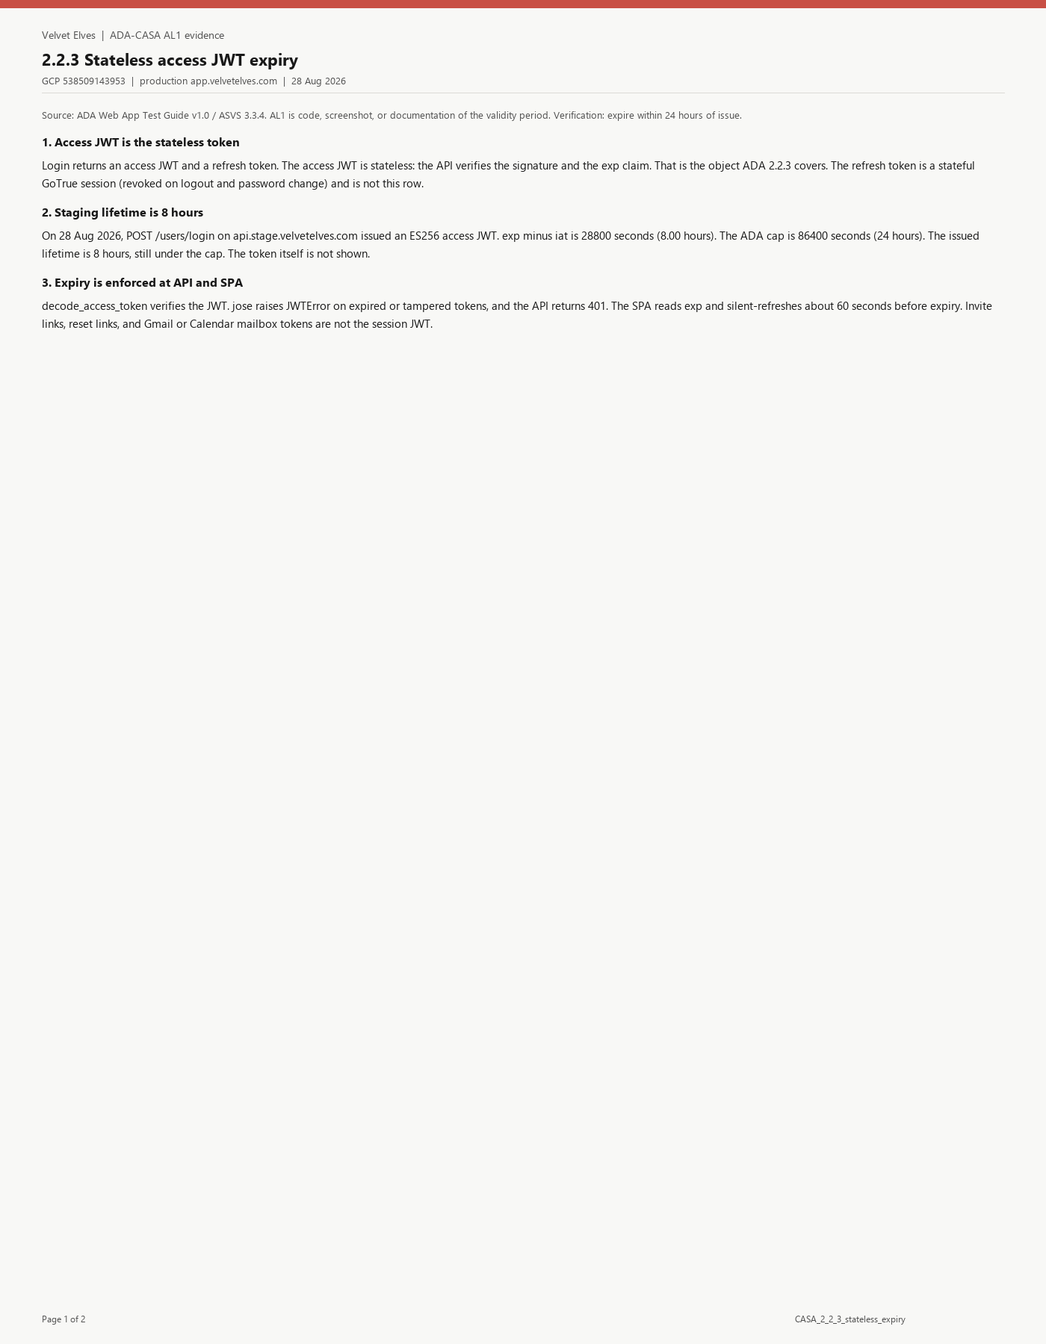
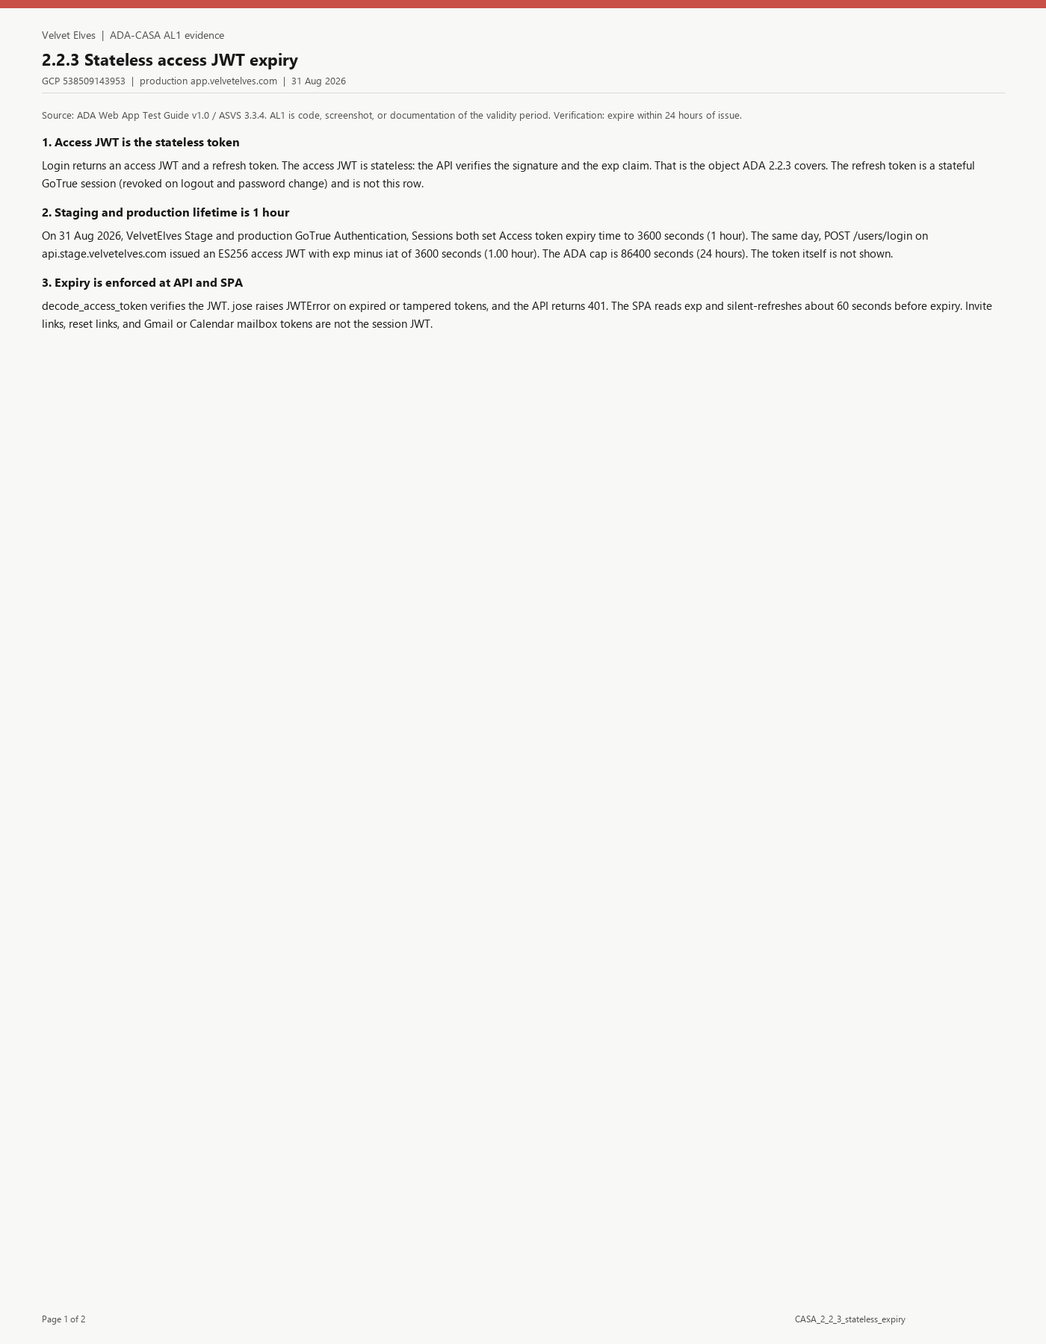
docs(casa): align 2.2.3 staging JWT expiry with 3600s Sessions change
Owner set VelvetElves Stage access-token expiry to 1 hour; live login and pack comments now match production.

Changed region(s): [[0.5221, 0.1556, 0.8907, 0.1867], [0.0921, 0.1556, 0.3686, 0.2178], [0.3993, 0.1556, 0.4914, 0.1867]]

diff --git a/casa_auth_qa/render_casa_223_pages.py b/casa_auth_qa/render_casa_223_pages.py
@@ -71,7 +71,7 @@ def new_page(title: str, page_no: int):
     d.text((MARGIN, 64), title, font=F_H, fill=INK)
     d.text(
         (MARGIN, 98),
-        "GCP 538509143953  |  production app.velvetelves.com  |  28 Aug 2026",
+        "GCP 538509143953  |  production app.velvetelves.com  |  31 Aug 2026",
         font=F_SMALL,
         fill=MUTED,
     )
@@ -119,14 +119,14 @@ def page1():
         ],
     )
     y += 10
-    d.text((MARGIN, y), "2. Staging lifetime is 8 hours", font=F_SEC, fill=INK)
+    d.text((MARGIN, y), "2. Staging and production lifetime is 1 hour", font=F_SEC, fill=INK)
     y += 32
     y = paint(
         d,
         y,
         [
             (
-                "On 28 Aug 2026, POST /users/login on api.stage.velvetelves.com issued an ES256 access JWT. exp minus iat is 28800 seconds (8.00 hours). The ADA cap is 86400 seconds (24 hours). The issued lifetime is 8 hours, still under the cap. The token itself is not shown.",
+                "On 31 Aug 2026, VelvetElves Stage and production GoTrue Authentication, Sessions both set Access token expiry time to 3600 seconds (1 hour). The same day, POST /users/login on api.stage.velvetelves.com issued an ES256 access JWT with exp minus iat of 3600 seconds (1.00 hour). The ADA cap is 86400 seconds (24 hours). The token itself is not shown.",
                 F_BODY,
                 INK,
             ),
@@ -162,7 +162,7 @@ def page2():
         ),
         (
             "Expires within 24 hours of issue",
-            "Staging 28 Aug 2026: exp minus iat = 28800 seconds (8.00 hours).",
+            "Staging 31 Aug 2026: exp minus iat = 3600 seconds (1.00 hour). GoTrue Sessions on staging and production: 3600 seconds.",
             True,
         ),
         (
@@ -172,7 +172,7 @@ def page2():
         ),
         (
             "Validity period documented",
-            "Live iat/exp decode (token not shown) plus decode_access_token and SPA exp handling.",
+            "Live iat/exp decode (token not shown), GoTrue Sessions 3600 s on staging and production, plus decode_access_token and SPA exp handling.",
             True,
         ),
     ]
@@ -190,7 +190,7 @@ def page2():
         y,
         [
             (
-                "The Velvet Elves session access token is a signed JWT that expires 8 hours after issue on staging, under ADA’s 24-hour cap. Expired tokens are rejected by JWT verification. This was measured from a live staging login without pasting the token.",
+                "The Velvet Elves session access token is a signed JWT that expires 1 hour after issue on staging and production, under ADA’s 24-hour cap. Expired tokens are rejected by JWT verification. This was measured from a live staging login without pasting the token.",
                 F_BODY,
                 INK,
             ),

diff --git a/casa_auth_qa/casa_223_exp.py b/casa_auth_qa/casa_223_exp.py
@@ -89,7 +89,7 @@ def render(*, alg: str, iat: int, exp: int, lifetime_s: int, login_status: int) 
         y += 44
     d.text(
         (48, H - 48),
-        "api.stage.velvetelves.com  |  CASA_2_2_3_exp  |  28 Aug 2026",
+        "api.stage.velvetelves.com  |  CASA_2_2_3_exp  |  31 Aug 2026",
         font=font(12),
         fill=(80, 80, 80),
     )

diff --git a/casa_al1_evidence/m9/CASA_PORTAL_PACK.md b/casa_al1_evidence/m9/CASA_PORTAL_PACK.md
@@ -37,7 +37,7 @@ Global do-not-claim (these rows): HttpOnly session cookies; MFA default for **al
 | 9 | 2.1.1 | URLs shall not expose authentication material | 5 | `CASA_2_1_1_no_tokens_in_url.md` |
 | 10 | 2.2.1 | Logout invalidates stateful session tokens | 6 | `CASA_2_2_1_logout.md` |
 | 11 | 2.2.2 | Terminate other sessions after password change | 7 | `CASA_2_2_2_password_change_sessions.md` |
-| 12 | 2.2.3 | Stateless authentication tokens expire within 24 hours | 5 | `CASA_2_2_3_stateless_expiry.md` |
+| 12 | 2.2.3 | Stateless authentication tokens expire within 24 hours | 6 | `CASA_2_2_3_stateless_expiry.md` |
 | 13 | 2.3.1 | Cookie-based session tokens shall have the Secure attribute | 5 | `CASA_2_3_1_cookie_secure.md` |
 | 14 | 2.3.2 | Cookie-based session tokens shall have the HttpOnly attribute | 5 | `CASA_2_3_2_cookie_httponly.md` |
 | 15 | 2.3.3 | Session tokens rather than static API secrets and keys | 4 | `CASA_2_3_3_session_not_static_key.md` |
@@ -460,29 +460,31 @@ Password change is through password reset (Forgot password), not an in-app curre
 
 - Access JWT is the stateless session token. Refresh is a separate, stateful GoTrue session (2.2.1 / 2.2.2).
 - Production GoTrue **Authentication → Sessions** (31 Aug 2026): **Access token expiry time = 3600 seconds (1 hour)**.
-- Staging live `POST /users/login` then decode `iat` / `exp`: **28800 seconds (8.00 hours)** on 28 Aug and again 31 Aug 2026, ES256. Token not shown. Staging and production GoTrue projects are not the same clock.
-- Both values are under ADA's **24-hour** cap.
+- Staging GoTrue **Authentication → Sessions** (VelvetElves Stage, 31 Aug 2026, owner-captured): **Access token expiry time = 3600 seconds (1 hour)**. The orange **PRODUCTION** badge is that project's primary-branch label, not `app.velvetelves.com`.
+- Staging live `POST /users/login` then decode `iat` / `exp` after that change (31 Aug 2026): **3600 seconds (1.00 hour)**, ES256. Token not shown. Earlier the same day (and on 28 Aug) staging still issued **28800 s**.
+- Both environments are under ADA's **24-hour** cap.
 - `decode_access_token` verifies the JWT; expired tokens raise `JWTError` → 401.
 - SPA reads `exp` (`getTokenExpirationMs`) and silent-refreshes ~60 s before expiry.
 
-**Do not claim:** that staging issues 1-hour JWTs (live staging is 8 hours); that production issues 8-hour JWTs (dashboard is 3600 s); that the refresh token expires within 24 hours; that **Inactivity timeout** or **Time-box user sessions** (both 0 = never on this PNG) are the 2.2.3 control — those are not the access JWT `exp`; HttpOnly cookies; invite/reset/mailbox tokens as the session JWT; pasting JWTs.
+**Do not claim:** that staging still issues 8-hour JWTs (that was true until the owner set 3600 s on 31 Aug); that the refresh token expires within 24 hours; that **Inactivity timeout** or **Time-box user sessions** (both 0 = never on these PNGs) are the 2.2.3 control — those are not the access JWT `exp`; that the Stage project's **PRODUCTION** badge is the production app host; HttpOnly cookies; invite/reset/mailbox tokens as the session JWT; pasting JWTs.
 
-**Helpers:** `casa_auth_qa/render_casa_223_pages.py`, `casa_223_exp.py` (`QA_PASSWORD`). Owner Sessions shot is `CASA_2_2_3_supabase_jwt.png` — do **not** recapture supabase.com.
+**Helpers:** `casa_auth_qa/render_casa_223_pages.py`, `casa_223_exp.py` (`QA_PASSWORD`). Owner Sessions shots are `CASA_2_2_3_supabase_jwt.png` (prod) and `CASA_2_2_3_supabase_jwt_stage.png` (VelvetElves Stage) — do **not** recapture supabase.com.
 
 ### Images
 
 | File | Description |
 | --- | --- |
-| [`tac_images/2.2.3/CASA_2_2_3_page1.png`](tac_images/2.2.3/CASA_2_2_3_page1.png) | Written evidence page 1 of 2. Access JWT vs refresh; staging 8-hour lifetime; API and SPA exp handling. |
-| [`tac_images/2.2.3/CASA_2_2_3_page2.png`](tac_images/2.2.3/CASA_2_2_3_page2.png) | Written evidence page 2 of 2. AL1 mapping. Measured from live staging login. |
+| [`tac_images/2.2.3/CASA_2_2_3_page1.png`](tac_images/2.2.3/CASA_2_2_3_page1.png) | Written evidence page 1 of 2. Access JWT vs refresh; 1-hour lifetime on staging and production; API and SPA exp handling. |
+| [`tac_images/2.2.3/CASA_2_2_3_page2.png`](tac_images/2.2.3/CASA_2_2_3_page2.png) | Written evidence page 2 of 2. AL1 mapping. Measured from live staging login after the Sessions change. |
 | [`tac_images/2.2.3/CASA_2_2_3_code.png`](tac_images/2.2.3/CASA_2_2_3_code.png) | `decode_access_token` verifies `exp`; SPA `getTokenExpirationMs` and silent refresh 60 s before expiry. |
-| [`tac_images/2.2.3/CASA_2_2_3_exp.png`](tac_images/2.2.3/CASA_2_2_3_exp.png) | Staging API: login 200, JWT `exp − iat` = 28800 s (8.00 hours), under 24 hours. Token not shown. |
+| [`tac_images/2.2.3/CASA_2_2_3_exp.png`](tac_images/2.2.3/CASA_2_2_3_exp.png) | Staging API: login 200, JWT `exp − iat` = 3600 s (1.00 hour), under 24 hours. Token not shown. |
 | [`tac_images/2.2.3/CASA_2_2_3_supabase_jwt.png`](tac_images/2.2.3/CASA_2_2_3_supabase_jwt.png) | Production Supabase Authentication → Sessions. Access token expiry **3600 s**. No keys. Inactivity/time-box 0 is not this row. |
+| [`tac_images/2.2.3/CASA_2_2_3_supabase_jwt_stage.png`](tac_images/2.2.3/CASA_2_2_3_supabase_jwt_stage.png) | VelvetElves Stage Authentication → Sessions. Access token expiry **3600 s**. No keys. Inactivity/time-box 0 is not this row. |
 
 ### Portal comment
 
 ```
-The user session access token is a signed JWT. Production GoTrue Sessions sets access token expiry to 3600 seconds (1 hour). Staging login on 31 Aug 2026 still issues tokens with exp minus iat of 28800 seconds (8 hours). Both are under ADA's 24-hour cap. The API rejects expired JWTs. The app reads exp and refreshes about a minute before expiry. The refresh token is a separate, revocable session token (see 2.2.1), not the stateless token this row covers.
+The user session access token is a signed JWT. Production and staging GoTrue Sessions both set access token expiry to 3600 seconds (1 hour). Staging login on 31 Aug 2026 issued tokens with exp minus iat of 3600 seconds. Both environments are under ADA's 24-hour cap. The API rejects expired JWTs. The app reads exp and refreshes about a minute before expiry. The refresh token is a separate, revocable session token (see 2.2.1), not the stateless token this row covers.
 ```
 
 ---

diff --git a/CASA/TAC_ESOF_PORTAL_GUIDE.md b/CASA/TAC_ESOF_PORTAL_GUIDE.md
@@ -237,7 +237,7 @@ Comments (punctuation allowed) and files:
 | 9 | 2.1.1 no tokens in URL | `tac_images/2.1.1/` — `CASA_2_1_1_page1.png`, `page2.png`, `code.png`, `query_rejected.png`, `login.png` | Login is POST /users/login with the password in the request body, never as a GET query parameter. The session JWT is sent as Authorization Bearer, not in the URL. Official ADA ZAP scans of the SPA and API did not report Session ID in URL or Sensitive Information in URL. Google OAuth returns tokens to a popup via postMessage. Password-reset confirm posts the recovery token in the JSON body. Invite accept and public invoice links may include a one-time capability token in the query; those are not the user session JWT. |
 | 10 | 2.2.1 logout invalidates | `tac_images/2.2.1/` — `CASA_2_2_1_page1.png`, `page2.png`, `code.png`, `refresh_replay.png`, `logout_menu.png`, `after_logout.png` | Users can log out from the app menu. Logout calls POST /users/logout, which revokes this Supabase session (GoTrue admin sign_out) and then clears browser storage. Replaying the refresh token after logout returns 401. The short-lived access JWT expires on its own (under 24 hours). |
 | 11 | 2.2.2 other sessions on password change | `tac_images/2.2.2/` — `CASA_2_2_2_page1.png`, `page2.png`, `code.png`, `gotrue.png`, `login.png`, `forgot_password.png`, `reset_expired.png` | Password change is through password reset (Forgot password), not an in-app current-password form. Confirm updates the password in Supabase Auth. GoTrue then terminates other sessions by default: a recovery session logs out every other session; an admin password update logs out all sessions for that user. After a successful reset the app sends the user to sign in. Short-lived access JWTs expire on their own (under 24 hours). |
-| 12 | 2.2.3 stateless token under 24h | `tac_images/2.2.3/` — `CASA_2_2_3_page1.png`, `page2.png`, `code.png`, `exp.png`, `supabase_jwt.png` | The user session access token is a signed JWT. Production GoTrue Sessions sets access token expiry to 3600 seconds (1 hour). Staging login on 31 Aug 2026 still issues tokens with exp minus iat of 28800 seconds (8 hours). Both are under ADA's 24-hour cap. The API rejects expired JWTs. The app reads exp and refreshes about a minute before expiry. The refresh token is a separate, revocable session token (see 2.2.1), not the stateless token this row covers. |
+| 12 | 2.2.3 stateless token under 24h | `tac_images/2.2.3/` — `CASA_2_2_3_page1.png`, `page2.png`, `code.png`, `exp.png`, `supabase_jwt.png`, `supabase_jwt_stage.png` | The user session access token is a signed JWT. Production and staging GoTrue Sessions both set access token expiry to 3600 seconds (1 hour). Staging login on 31 Aug 2026 issued tokens with exp minus iat of 3600 seconds. Both environments are under ADA's 24-hour cap. The API rejects expired JWTs. The app reads exp and refreshes about a minute before expiry. The refresh token is a separate, revocable session token (see 2.2.1), not the stateless token this row covers. |
 | 13 | 2.3.1 cookie Secure | `tac_images/2.3.1/` — `CASA_2_3_1_page1.png`, `page2.png`, `code.png`, `zap.png`, `headers.png` | Session tokens are not cookies. Login returns a JWT in the JSON body and the app stores it in localStorage, then sends Authorization Bearer. Staging POST /users/login sets no Set-Cookie and is HTTPS with HSTS. Official ADA ZAP scans (SPA 10f54abf, API a9d78f05, auth 33afa2aa) did not report Cookie Without Secure Flag. There is no session cookie for the Secure attribute to apply to. |
 | 14 | 2.3.2 cookie HttpOnly | `tac_images/2.3.2/` — `CASA_2_3_2_page1.png`, `page2.png`, `code.png`, `zap.png`, `headers.png` | Session tokens are not cookies. Login returns a JWT in the JSON body and the app stores it in localStorage, then sends Authorization Bearer. Staging POST /users/login sets no Set-Cookie. Official ADA ZAP scans (SPA 10f54abf, API a9d78f05, auth 33afa2aa) did not report Cookie No HttpOnly Flag. There is no session cookie for the HttpOnly attribute to apply to. |
 | 15 | 2.3.3 session tokens not static API keys | `tac_images/2.3.3/` — `CASA_2_3_3_page1.png`, `page2.png`, `code.png`, `dyn.png` | User login does not use a static API key. After a correct password, Supabase Auth issues a new JWT and refresh token for that session. Two successive staging logins produced different iat values. The app sends Authorization Bearer. Gmail and Calendar use that user's OAuth tokens, not a shared mailbox key. Tenant inbound CRM keys (X-API-Key) are a separate machine path for contact push; they are not the user session. |

diff --git a/casa_al1_evidence/m9/CASA_2_2_3_stateless_expiry.md b/casa_al1_evidence/m9/CASA_2_2_3_stateless_expiry.md
@@ -2,7 +2,7 @@
 
 **Source:** ADA Web App Test Guide v1.0 (10 Oct 2024), AL1 evidence + verification.  
 **ASVS:** 3.3.4  
-**Date:** 28 Aug 2026  
+**Date:** 31 Aug 2026  
 
 ## ADA AL1 evidence
 
@@ -21,16 +21,20 @@ The Velvet Elves login session is two tokens:
 
 `TokenResponse` returns `access_token` and `refresh_token`. Lifetime is in the JWT `iat` / `exp` claims, not an `expires_in` field on that schema.
 
-## Staging measurement (28 Aug 2026)
+## Staging and production measurement (31 Aug 2026)
 
-`POST /users/login` on `api.stage.velvetelves.com`, then decode the access JWT payload (token never printed or screenshotted):
+GoTrue **Authentication → Sessions**: **Access token expiry time = 3600 seconds** on both VelvetElves Stage and production.
+
+`POST /users/login` on `api.stage.velvetelves.com` after that staging change, then decode the access JWT payload (token never printed or screenshotted):
 
 - Algorithm: **ES256**
-- `exp − iat` = **28800 seconds (8.00 hours)**
+- `exp − iat` = **3600 seconds (1.00 hour)**
 - ADA cap: 86400 seconds (24 hours)
 - Under 24 hours: **yes**
 
-Do not claim the GoTrue **default** of 1 hour. This project’s issued access JWT is **8 hours**.
+Earlier on 31 Aug (and on 28 Aug) the same staging login issued **28800 seconds (8 hours)**. Do not paste that older lifetime into the portal comment.
+
+The Stage project's orange **PRODUCTION** badge is the primary-branch label, not the production app host.
 
 ## How expiry is enforced
 
@@ -44,15 +48,16 @@ Do not claim the GoTrue **default** of 1 hour. This project’s issued access JW
 - Password-reset recovery links — OOB verifiers (1.3.1).
 - Gmail / Calendar mailbox OAuth tokens — not login sessions.
 - Refresh-token lifetime — stateful; covered by 2.2.1 / 2.2.2.
+- **Inactivity timeout** / **Time-box user sessions** (both 0 = never on the Sessions PNGs) — not the access JWT `exp`.
 
 ## Do not claim
 
-- A 1-hour access JWT (measured 8 hours).
+- That staging still issues an 8-hour access JWT (owner set 3600 s on 31 Aug).
 - That the refresh token expires within 24 hours.
 - HttpOnly session cookies; MFA for all users; pasting JWTs or secrets.
 
 ## Portal comment
 
 ```
-The user session access token is a signed JWT. On staging (28 Aug 2026) exp minus iat is 28800 seconds (8 hours), under ADA's 24-hour cap. The API rejects expired JWTs. The app reads exp and refreshes about a minute before expiry. The refresh token is a separate, revocable session token (see 2.2.1), not the stateless token this row covers.
+The user session access token is a signed JWT. Production and staging GoTrue Sessions both set access token expiry to 3600 seconds (1 hour). Staging login on 31 Aug 2026 issued tokens with exp minus iat of 3600 seconds. Both environments are under ADA's 24-hour cap. The API rejects expired JWTs. The app reads exp and refreshes about a minute before expiry. The refresh token is a separate, revocable session token (see 2.2.1), not the stateless token this row covers.
 ```

diff --git a/CASA/CASA_48_CHECKS_REVISION_PLAN.md b/CASA/CASA_48_CHECKS_REVISION_PLAN.md
@@ -68,7 +68,7 @@ All Velvet Elves screenshots go to `casa_al1_evidence/m9/tac_images/<check-id>/`
 | # | What | Where | Feeds rows |
 | --- | --- | --- | --- |
 | S1 | Auth rate limits page | Supabase dashboard → Authentication → Rate Limits (production project) | 1 |
-| S2 | Access-token expiry — **done**. Staging live JWT 8 h (28 Aug and 31 Aug). Production Sessions PNG: 3600 s (31 Aug). Packed as 2.2.3. | Staging decode + prod Sessions shot | 12 |
+| S2 | Access-token expiry — **done**. Staging live JWT **3600 s** (31 Aug after owner Sessions change; was 8 h earlier that day). Production and VelvetElves Stage Sessions PNGs: 3600 s. Packed as 2.2.3. | Staging decode + prod/stage Sessions shots | 12 |
 | S3 | OTP / reset token expiry + single-use | Supabase → Authentication → Email settings | 5–8 |
 | S4 | Password change revokes other sessions — **done 28 Aug 2026** via GoTrue source (`UpdatePassword` → LogoutAllExceptMe / Logout), not a dashboard toggle. Packed as 2.2.2. | GoTrue public source + confirm code | 11 |
 | S5 | SSL Labs grade `app.velvetelves.com` — **done 31 Aug 2026**, A+ all endpoints | ssllabs.com/ssltest | 27, 28 |
@@ -156,7 +156,7 @@ Verdicts from `GAP_ANALYSIS_48_CHECKS.md`. Comments: §7 of the portal guide.
 | 9 | 2.1.1 | Ready | M9d + dast | [ ] |
 | 10 | 2.2.1 | Code landed → deploy + S10 | CASA_2_2_1 + S10 | [ ] |
 | 11 | 2.2.2 | Ready (GoTrue default terminate-others; no live two-device reset) | CASA_2_2_2 | [ ] |
-| 12 | 2.2.3 | Packed (staging JWT 8 h; prod Sessions 3600 s; both < 24 h) | CASA_2_2_3 | [ ] |
+| 12 | 2.2.3 | Packed (staging + prod JWT 3600 s; both < 24 h) | CASA_2_2_3 | [ ] |
 | 13 | 2.3.1 | Ready (honest N/A — not a cookie session) | CASA_2_3_1 | [ ] |
 | 14 | 2.3.2 | Ready (honest N/A — not a cookie session) | CASA_2_3_2 | [ ] |
 | 15 | 2.3.3 | Ready (GoTrue JWT minted per login) | CASA_2_3_3 | [ ] |

diff --git a/CASA/MISSING_SCREENSHOTS_CHECKLIST.md b/CASA/MISSING_SCREENSHOTS_CHECKLIST.md
@@ -63,7 +63,7 @@ Priority: **P0** ADA-named samples · **P1** owner consoles ADA asks for · **P2
 | P3 | [3.1.6](#316--directory-browsing-disabled) | S3 / CloudFront listing off | Owner | 5 |
 | P3 | [3.2.1](#321--oauth-authorization-code--pkce) / [3.2.2](#322--oauth-redirect_uri-and-state) | GCP OAuth client (read-only) | Owner | 5 each |
 | P3 | [4.1.2](#412--trusted-tls-certificates) | ACM console | Owner | 8 |
-| P3 | [2.2.3](#223--stateless-tokens-expire-within-24-hours) | Supabase JWT expiry (optional) | Owner — **done 31 Aug** | 5 |
+| P3 | [2.2.3](#223--stateless-tokens-expire-within-24-hours) | Supabase JWT expiry (optional) | Owner — **done 31 Aug** | 6 |
 | P3 | [Scanner UI](#scanner-ui--zap--burp-all-dast-rows) | ZAP / Burp product UI | Owner | — |
 
 ---
@@ -88,11 +88,12 @@ Applies to: 2.3.1, 2.3.2, 2.3.4, 3.1.5, 3.1.6, 5.1.1–5.1.10, 6.2.1, 6.3.1.
 
 ## 2.2.3 — Stateless tokens expire within 24 hours
 
-**Packed:** staging `exp − iat` = 8 hours (`CASA_2_2_3_exp.png`). Production Sessions: access token expiry **3600 s** (`CASA_2_2_3_supabase_jwt.png`). Both under 24 hours.
+**Packed:** staging live `exp − iat` = **3600 s** (`CASA_2_2_3_exp.png`). Production Sessions **3600 s** (`CASA_2_2_3_supabase_jwt.png`). VelvetElves Stage Sessions **3600 s** (`CASA_2_2_3_supabase_jwt_stage.png`). All under 24 hours.
 
-**Done 31 Aug 2026.** Do not recapture supabase.com. Do not treat Inactivity timeout 0 / Time-box 0 as this row.
+**Done 31 Aug 2026.** Do not recapture supabase.com. Do not treat Inactivity timeout 0 / Time-box 0 as this row. The Stage project's **PRODUCTION** badge is the primary-branch label, not `app.velvetelves.com`.
 
 - [x] Production Supabase Authentication → Sessions PNG (`CASA_2_2_3_supabase_jwt.png`)
+- [x] VelvetElves Stage Authentication → Sessions PNG (`CASA_2_2_3_supabase_jwt_stage.png`)
 
 ---
 

diff --git a/casa_al1_evidence/m9/GAP_ANALYSIS_48_CHECKS.md b/casa_al1_evidence/m9/GAP_ANALYSIS_48_CHECKS.md
@@ -18,7 +18,7 @@
 | ID | What to check |
 | --- | --- |
 | 2.2.2 | **Verified 28 Aug 2026.** Not a dashboard toggle. Password change is reset/recovery (`POST /users/password-reset/confirm`). GoTrue `User.UpdatePassword` then `LogoutAllExceptMe` (recovery session) or `Logout` all sessions (admin password update, `sessionID` nil). Packed in `CASA_PORTAL_PACK.md`. Do not claim a live two-device reset. |
-| 2.2.3 | **Verified 28 Aug 2026.** Staging access JWT `exp − iat` = **28800 s (8.00 hours)**, under 24 h. Packed in `CASA_PORTAL_PACK.md`. Do not claim the 1-hour GoTrue default. Owner Sessions/JWT dashboard shot (S2) is optional backup. |
+| 2.2.3 | **Verified 31 Aug 2026.** Staging access JWT `exp − iat` = **3600 s (1.00 hour)** after owner set VelvetElves Stage Sessions to 3600 s (was 28800 s earlier that day). Production Sessions also 3600 s. Packed in `CASA_PORTAL_PACK.md`. Do not treat inactivity/time-box 0 as this row. |
 | 1.3.x | Supabase OTP/reset token expiry + single use. Screenshot the auth settings page. |
 | 4.1.1/4.1.2 | **Packed 31 Aug 2026.** Qualys SSL Labs **A+** on both production hosts. 4.1.2 live peer certs are public Amazon ACM (SPA SAN covers stage+prod names; API is api.prod.velvetelves.com). API ALB HTTP:80 still serves FastAPI (`GET /api/v1/health` **200**) — that is a 4.1.1 note, not a cert-trust fail. |
 | 6.4.1 | Quick Route 53 review: no dangling CNAMEs to dead services. Attest. |

diff --git a/casa_al1_evidence/m9/compensating_controls.md b/casa_al1_evidence/m9/compensating_controls.md
@@ -41,7 +41,7 @@ Compensating for AL1:
 - App and API are HTTPS-only.
 - CSP `connect-src` locked to the env API (`api.prod.velvetelves.com` / `api.stage.velvetelves.com`) plus listed SaaS hosts.
 - Logout clears the keys.
-- Supabase JWT expiry + refresh rotation. Staging access JWT measured 28 Aug 2026: `exp − iat` = 8 hours (under 24 h). Refresh is stateful and revocable.
+- Supabase JWT expiry + refresh rotation. Staging access JWT measured 31 Aug 2026: `exp − iat` = 1 hour (under 24 h; was 8 h until the owner set Sessions to 3600 s). Refresh is stateful and revocable.
 - XSS on OAuth callbacks closed (CWE-79 re-scan 0 High).
 
 If a lab maps “no HttpOnly session cookie” as fail-without-fix, cookie migration is the follow-up. Do not tell the lab the session is a cookie today.

diff --git a/casa_al1_evidence/m9/CASA_2_3_2_cookie_httponly.md b/casa_al1_evidence/m9/CASA_2_3_2_cookie_httponly.md
@@ -37,7 +37,7 @@ API CASA conf maps 10010 to **WARN** (not FAIL). SPA conf maps it to **FAIL**. N
 
 ## Compensating (not an HttpOnly claim)
 
-HTTPS-only app and API, CSP `connect-src` locked to the env API, OAuth callback XSS closed, logout clears the localStorage keys, access JWT expires in 8 hours (2.2.3). Cookie migration would be the follow-up if a lab requires HttpOnly session cookies.
+HTTPS-only app and API, CSP `connect-src` locked to the env API, OAuth callback XSS closed, logout clears the localStorage keys, access JWT expires in 1 hour (2.2.3). Cookie migration would be the follow-up if a lab requires HttpOnly session cookies.
 
 ## Do not claim
 

diff --git a/casa_al1_evidence/m9/CASA_2_3_1_cookie_secure.md b/casa_al1_evidence/m9/CASA_2_3_1_cookie_secure.md
@@ -37,7 +37,7 @@ API CASA conf maps 10011 to **WARN** (not FAIL). SPA conf maps it to **FAIL**. N
 
 ## Compensating (not a cookie claim)
 
-HTTPS-only app and API, HSTS on the API, CSP `connect-src` locked to the env API, logout clears the localStorage keys, access JWT expires in 8 hours (2.2.3).
+HTTPS-only app and API, HSTS on the API, CSP `connect-src` locked to the env API, logout clears the localStorage keys, access JWT expires in 1 hour (2.2.3).
 
 ## Do not claim
 
